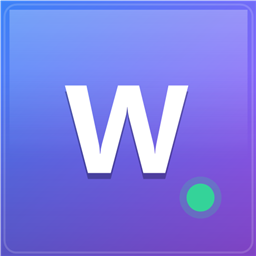
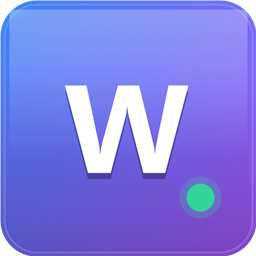
v0.2.2：启动错峰创建消除卡顿、微圆角新图标、网格密集排版、启动逻辑修复、更新错误友好化

diff --git a/manager/renderer.js b/manager/renderer.js
@@ -51,20 +51,36 @@ function makeItem(w) {
   const item = document.createElement('div');
   item.className = 'item';
 
-  // iframe：直接使用组件原始尺寸（w.w × w.h），无缩放
+  // 网格占位：宽 140/280/342 → 1/2/3 列；高 74~180 → 1 行，280~285 → 2 行，500~551 → 4 行
+  const cols = w.w <= 150 ? 1 : w.w <= 300 ? 2 : 3;
+  const rows = w.h <= 185 ? 1 : w.h <= 300 ? 2 : 4;
+  item.style.gridColumn = `span ${cols}`;
+  item.style.gridRow = `span ${rows}`;
+
+  // 预览缩放容器：iframe 保持原始尺寸，由 .scaler 等比缩放到格子内
+  const box = document.createElement('div');
+  box.className = 'box';
+  const scaler = document.createElement('div');
+  scaler.className = 'scaler';
+  scaler.style.width = (w.w || 300) + 'px';
+  scaler.style.height = (w.h || 150) + 'px';
+
   const frame = document.createElement('iframe');
   frame.className = 'frame';
   frame.setAttribute('scrolling', 'no');
   frame.setAttribute('loading', 'lazy');   // 懒加载：只加载视口附近的预览，大幅降低启动开销
   frame.style.width = (w.w || 300) + 'px';
   frame.style.height = (w.h || 150) + 'px';
+  scaler.appendChild(frame);
+  box.appendChild(scaler);
   item._frame = frame;
+  item._scaler = scaler;
 
   const name = document.createElement('div');
   name.className = 'name';
   name.textContent = w.name;
 
-  item.append(frame, name);
+  item.append(box, name);
   item.dataset.wid = w.id;
   item.addEventListener('click', () => {
     item.classList.add('pulse');
@@ -87,6 +103,23 @@ function makeItem(w) {
   });
   return item;
 }
+
+// 等比缩放预览到格子内（格子尺寸 = span×148 + gap，留 8px 内边距）
+function fitScaler(item, w) {
+  const { width: iw, height: ih } = item.getBoundingClientRect();
+  if (!iw || !ih) return;
+  const availW = iw - 10, availH = ih - 26;   // 底部留名字空间
+  const s = Math.min(availW / (w.w || 300), availH / (w.h || 150));
+  item._scaler.style.transform = `scale(${Math.max(0.2, s)})`;
+}
+// ResizeObserver：窗口/布局变化时重算缩放
+const ro = typeof ResizeObserver === 'function' ? new ResizeObserver((entries) => {
+  entries.forEach((en) => {
+    const item = en.target;
+    const w = widgets.find((x) => x.id === item.dataset.wid);
+    if (w) fitScaler(item, w);
+  });
+}) : null;
 
 // 清除插入指示线
 function clearInsertIndicator() {
@@ -273,6 +306,8 @@ document.addEventListener('mouseup', () => {
     item.style.animationDelay = `${30 + i * 35}ms`;
     itemCache[w.id] = item;
     grid.appendChild(item);
+    if (ro) ro.observe(item);
+    fitScaler(item, w);
     // loading=lazy：Chromium 自动只加载视口内 iframe，不再一次性加载全部预览
     setTimeout(() => loadFrame(item._frame, w), 60 + i * 90);
   });

diff --git a/manager/style.css b/manager/style.css
@@ -203,11 +203,12 @@ html.dragging .sidebar {
 }
 .grid {
   flex: 1;
-  display: flex;
-  flex-wrap: wrap;
-  align-items: flex-start;
-  align-content: flex-start;
-  gap: 8px 9px;
+  display: grid;
+  /* 6 列 × 148px 行高，密集流（dense）：大小卡片混排时自动回填空隙，无大块空白 */
+  grid-template-columns: repeat(6, 1fr);
+  grid-auto-rows: 148px;
+  grid-auto-flow: row dense;
+  gap: 8px;
   padding: 6px 12px 8px 6px;
   box-sizing: border-box;
   overflow-x: hidden;
@@ -215,20 +216,19 @@ html.dragging .sidebar {
 }
 .grid::-webkit-scrollbar { width: 0; }
 
-/* 卡片：无外框，组件原始尺寸直接展示；名字悬浮在组件下方 */
+/* 卡片：占据整格，预览缩放居中；名字悬浮在卡片下方 */
 .item {
   position: relative;
-  flex: none;
   display: flex;
-  flex-direction: column;
   align-items: center;
-  gap: 6px;
+  justify-content: center;
   cursor: pointer;
   opacity: 0;
+  overflow: hidden;
   animation: itemIn 0.55s cubic-bezier(0.22, 1.2, 0.36, 1) forwards;
   transition: transform 0.2s cubic-bezier(0.34, 1.56, 0.64, 1);
 }
-.item:hover { transform: scale(1.02); }
+.item:hover { transform: scale(1.03); z-index: 2; }
 .item.dragging { opacity: 0.35; }
 .item.insert-before { box-shadow: -3px 0 0 #0a84ff; }
 .item.insert-after { box-shadow: 3px 0 0 #0a84ff; }
@@ -237,8 +237,15 @@ html.dragging .sidebar {
   to { transform: translateY(0); opacity: 1; }
 }
 
+/* 预览缩放容器：按格子尺寸等比缩放 iframe 内容 */
+.box {
+  position: absolute; inset: 0;
+  display: flex; align-items: center; justify-content: center;
+  overflow: hidden;
+}
+.scaler { position: relative; transform-origin: center center; }
 .frame {
-  flex: none;
+  display: block;
   border: none;
   background: transparent;
   pointer-events: none;
@@ -248,10 +255,12 @@ html.dragging .sidebar {
 
 /* 名称（Open Runde，悬浮在组件下方） */
 .name {
-  flex: none;
+  position: absolute;
+  left: 50%; bottom: 6px;
+  transform: translateX(-50%);
   padding: 2px 10px;
   border-radius: 999px;
-  background: rgba(255, 255, 255, 0.78);
+  background: rgba(255, 255, 255, 0.82);
   -webkit-backdrop-filter: blur(6px);
   backdrop-filter: blur(6px);
   font-family: 'Open Runde', -apple-system, 'PingFang SC', sans-serif;
@@ -261,8 +270,9 @@ html.dragging .sidebar {
   color: rgba(23, 53, 39, 0.85);
   white-space: nowrap;
   transition: background 0.15s ease, color 0.15s ease;
+  z-index: 3;
 }
-.item:hover .name { background: rgba(255, 255, 255, 0.92); color: rgba(23, 53, 39, 0.95); }
+.item:hover .name { background: rgba(255, 255, 255, 0.95); color: rgba(23, 53, 39, 0.95); }
 
 /* 底栏 */
 .footbar {

diff --git a/main.js b/main.js
@@ -35,7 +35,11 @@ if (!gotSingleLock) {
   app.quit();
 } else {
   app.on('second-instance', () => {
-    // 点击任务栏图标/再次启动：直接聚焦已存在的主界面（不再启动第二个实例导致组件重复）
+    // 用户关闭「启动时打开组件坞」时：再次启动只保持托盘驻留，不弹主界面
+    if (global.__cfg && global.__cfg.openManagerOnStart === false) {
+      try { if (tray) tray.displayBalloon({ title: 'Widgetly 组件坞', content: '已在后台运行，点击托盘图标打开组件坞' }); } catch (_) {}
+      return;
+    }
     if (managerWin && !managerWin.isDestroyed()) {
       if (managerWin.isMinimized()) managerWin.restore();
       managerWin.show();
@@ -814,10 +818,12 @@ app.whenReady().then(async () => {
   await captureWallpaper();      // 窗口未建，截干净壁纸（desktopCapturer 会破坏已建透明窗口，必须先截）
   if (global.__cfg.openManagerOnStart !== false) createManagerWindow();
   createTray();
-  for (const inst of global.__cfg.instances) {
-    createWidgetWindow(inst);
-  }
-  applyPinMode();   // 按配置应用组件层级（固定桌面层开关）
+  // 组件窗口错峰创建：同时创建 21 个渲染进程会引发 CPU 风暴（开机 2 分钟卡顿主因），
+  // 每个间隔 120ms，既平滑 CPU 峰值，又让主界面先出来可交互
+  global.__cfg.instances.forEach((inst, i) => {
+    setTimeout(() => { if (!widgetWins[inst.id]) createWidgetWindow(inst); }, i * 120);
+  });
+  setTimeout(() => applyPinMode(), Math.max(500, global.__cfg.instances.length * 120 + 300));
   app.on('activate', () => { if (BrowserWindow.getAllWindows().length === 0) createManagerWindow(); });
 });
 

diff --git a/manager/settings.js b/manager/settings.js
@@ -76,8 +76,17 @@ function paintUpdate(s) {
     line.textContent = '已是最新版本 ✓';
     updateStatus.appendChild(line);
   } else if (s.state === 'error') {
-    line.textContent = '检查更新失败：' + s.message;
+    // 错误信息友好化：网络类错误给中文提示，原始错误折叠为小字详情
+    const raw = String(s.message || '');
+    const netMsg = /ENOTFOUND|ECONN|ETIMEDOUT|network|socket|connect|ERR_/i.test(raw)
+      ? '无法连接更新服务器（网络问题）'
+      : (/404|not found/i.test(raw) ? '服务器上未找到更新信息' : '检查更新失败');
+    line.textContent = netMsg;
     updateStatus.appendChild(line);
+    const detail = document.createElement('span');
+    detail.style.cssText = 'font-size:10px;color:rgba(29,29,31,0.4);word-break:break-all;';
+    detail.textContent = raw.length > 120 ? raw.slice(0, 120) + '…' : raw;
+    updateStatus.appendChild(detail);
   }
 }
 document.getElementById('btnCheckUpdate').addEventListener('click', () => {
